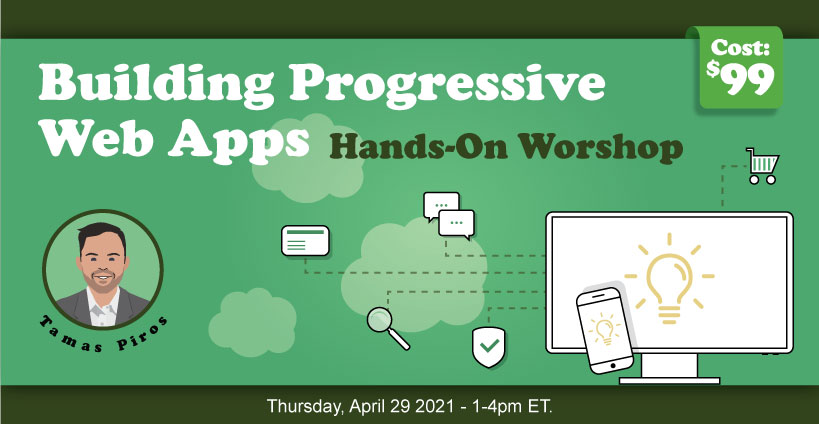
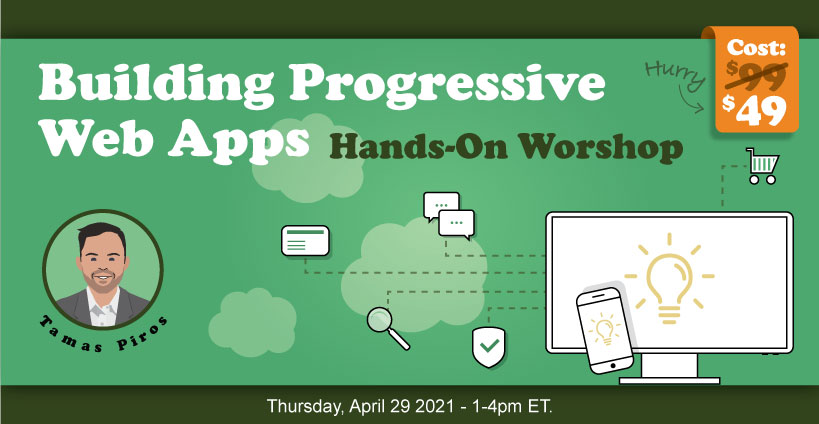
updated pricing

Changed region(s): [[0.7937, 0.0613, 0.9768, 0.3373]]

diff --git a/content/events/building-progressive-web-apps.md b/content/events/building-progressive-web-apps.md
@@ -2,7 +2,7 @@
 title: Building Progressive Web Apps (Workshop)
 date: 2021-04-29T13:00:00-04:00
 end_date: 2021-04-29T17:00:00-04:00
-cost: 99
+cost: 49
 homepage_banner: ProgressiveWebApps-042921.jpg
 short_desc: In this hands-on workshop, Tamas Piros will show you how to build a progressive web app (PWA).
 description: In this hands-on workshop, Tamas Piros will show you how to build a PWA focussing on some of its core features and fundamental components such as the Service Worker.
